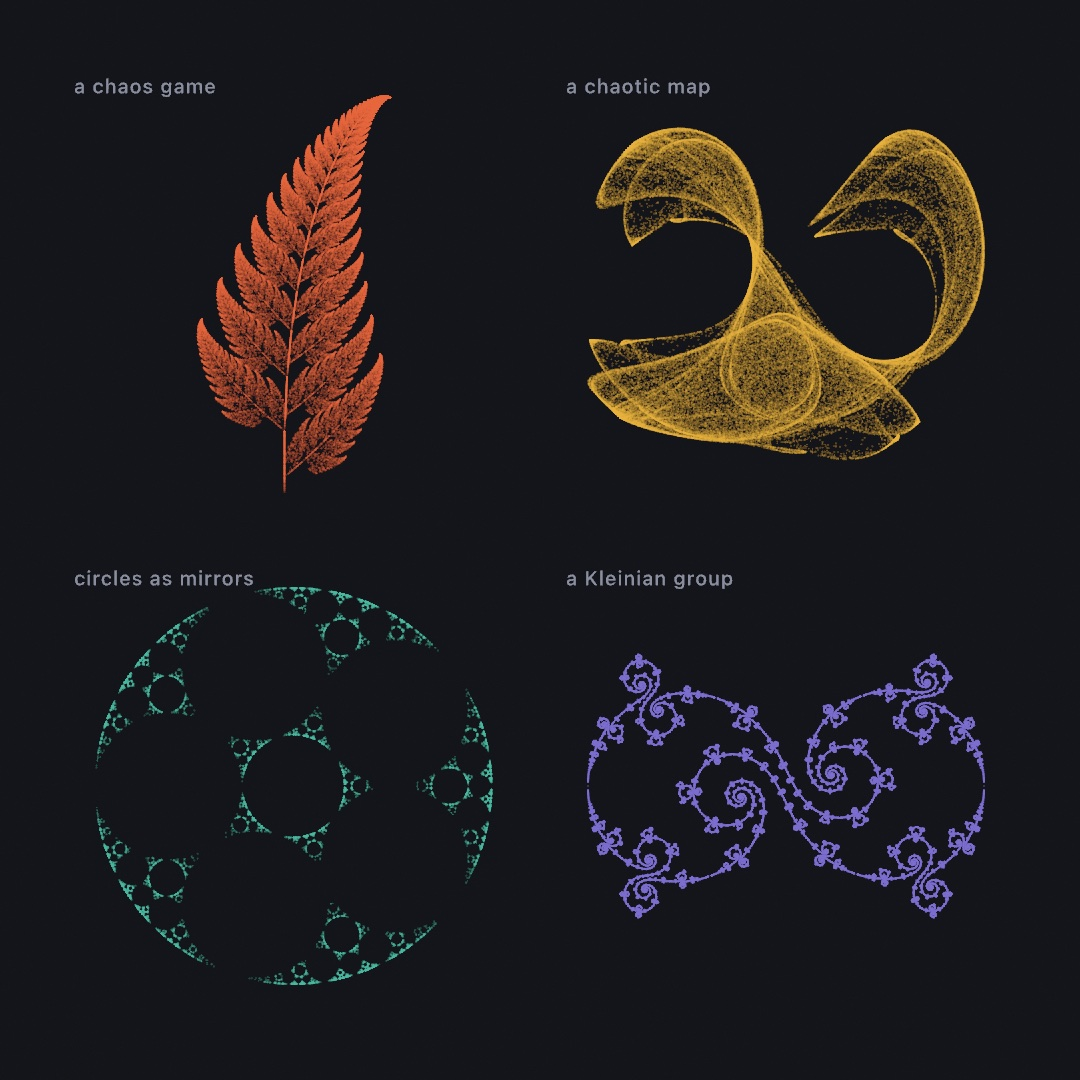
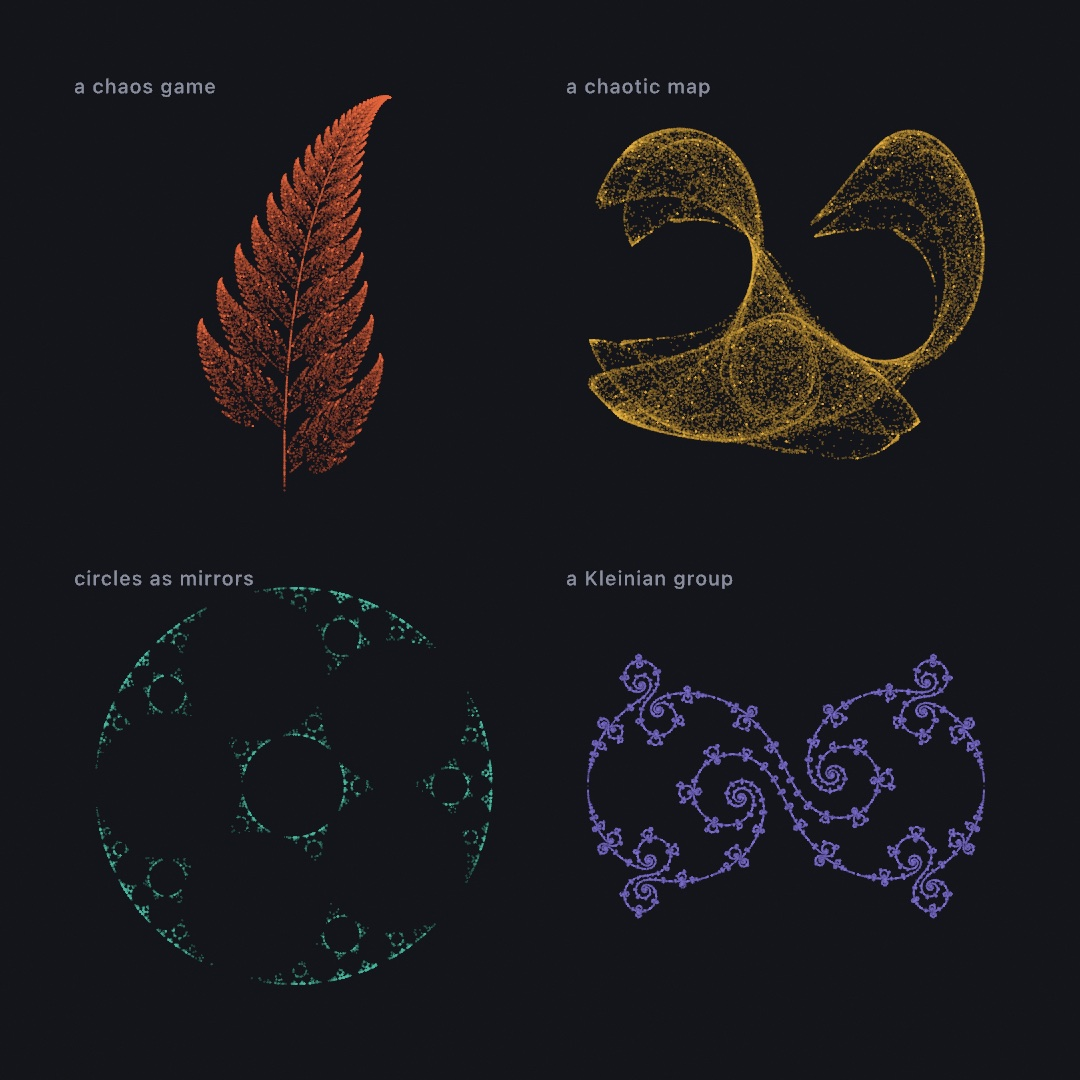
Chapter 22's plate of four orbits condenses in front of the reader. Each cloud is still built once in setup and fitted whole to its panel, and plot draws only the prefix that has landed so far, so the picture never swells or slides as it fills: six seconds of growth eased in cubic, two seconds holdi
Claude-Session: https://claude.ai/code/session_01WqLtBAH3GLezrn1E1FY2W7

diff --git a/Guide/Figures/22-IteratedForms/OrbitPlate.swift b/Guide/Figures/22-IteratedForms/OrbitPlate.swift
@@ -1,9 +1,12 @@
-// figure: frame=0 probe
+// figure: frame=240 probe
 //
 // Guide payoff (Chapter 22): a plate of four orbits. Four different iterated
 // rules, all of them handed to the same plotting function, because the
 // chapter's whole claim is that what you are looking at is the density of an
-// orbit rather than a drawn shape.
+// orbit rather than a drawn shape. The clouds condense point by point over
+// six seconds and then hold for two. The pinned frame is four seconds in,
+// with each cloud about a third of the way grown and its newest landings
+// bright.
 import Ollin
 
 final class OrbitPlate: Sketch {
@@ -19,6 +22,9 @@ final class OrbitPlate: Sketch {
     var clouds: [[Vector2]] = []
     var builtFor = 0
 
+    // Six seconds of points landing, then two seconds of the finished plate.
+    override var loopDuration: Double? { 8 }
+
     override func setup() {
         build()
     }
@@ -28,10 +34,16 @@ final class OrbitPlate: Sketch {
         background(paper)
         noStroke()
 
+        // How much of each cloud has landed so far. The ease-in keeps the
+        // first few hundred points on screen long enough to watch them land,
+        // before the flood.
+        let seconds = loopProgress(over: 8) * 8
+        let grown = Easing.easeInCubic(min(seconds / 6, 1))
+
         let panels = grid(columns: 2, rows: 2, padding: 70, gutter: 44)
         for (index, cell) in panels.cells.enumerated() {
             let inner = cell.frame.inset(by: .all(26))
-            plot(clouds[index], in: inner, ink: ramp.color(at: Double(index) / 3))
+            plot(clouds[index], in: inner, ink: ramp.color(at: Double(index) / 3), grown: grown)
             label(index, in: cell.frame)
         }
     }
@@ -72,16 +84,25 @@ final class OrbitPlate: Sketch {
             mirrors.append(Circle(center: .zero, radius: 1 - r))
             return inversionLimitSet(of: mirrors, count: budget / 3)
         default:
-            return kleinianLimitSet(.lace).points
+            // A contour's points come in order along the curve. Shuffled, they
+            // land all over it at once, the way the other three clouds do.
+            return shuffled(kleinianLimitSet(.lace).points)
         }
     }
 
-    // The one plotting function. Fit the cloud to its panel, then lay every
-    // point down at the same low alpha so that crowding is what makes a
-    // region bright.
-    func plot(_ cloud: [Vector2], in frame: Rectangle, ink: Color) {
+    // The one plotting function. Fit the whole cloud to its panel, then lay
+    // down the points that have landed so far, every one at the same low
+    // alpha, so that crowding is what makes a region bright. The newest few
+    // go down at full ink while the cloud is still growing, so you can watch
+    // the game being played.
+    func plot(_ cloud: [Vector2], in frame: Rectangle, ink: Color, grown: Double) {
+        let placed = fitted(cloud, in: frame)
+        let landed = Int(Double(placed.count) * grown)
+        let fresh = grown < 1 ? 200 : 0
         fill(ink.withAlpha(inkAlpha))
-        drawPoints(fitted(cloud, in: frame), size: dotSize)
+        drawPoints(Array(placed.prefix(landed)), size: dotSize)
+        fill(ink)
+        drawPoints(Array(placed.prefix(landed).suffix(fresh)), size: dotSize + 0.5)
     }
 
     func label(_ index: Int, in frame: Rectangle) {

diff --git a/Guide/22-IteratedForms.md b/Guide/22-IteratedForms.md
@@ -4,9 +4,9 @@
 
 # 22. Iterated forms
 
-<img src="Images/22-IteratedForms/OrbitPlate.jpg" alt="Four dark panels on near-black: a coral-red Barnsley fern, a gold folded ribbon from a chaotic map, a teal lace of nested circles from circle inversion, and a violet double spiral from a Kleinian group" width="560">
+<img src="Images/22-IteratedForms/OrbitPlate.jpg" alt="Four dark panels on near-black, each a cloud of points caught part way through condensing, its newest points bright over the faint ones: a coral-red Barnsley fern, a gold folded ribbon from a chaotic map, a teal lace of nested circles from circle inversion, and a violet double spiral from a Kleinian group" width="560">
 
-Take a point, apply a rule, mark where it lands, and repeat tens of thousands of times. The marks record where the point spent its time, and that record is the picture. You learn four such rules and one plotting function that draws them all, and the plate above is that function called four times. Fractal flames, order turning into chaos, and questions asked of the plane one pixel at a time follow it.
+Take a point, apply a rule, mark where it lands, and repeat tens of thousands of times. The marks record where the point spent its time, and that record is the picture. You learn four such rules and one plotting function that draws them all. The plate above is that function called four times, each cloud condensing as its points land. Fractal flames, order turning into chaos, and questions asked of the plane one pixel at a time follow it.
 
 ## The same fern, played as a game: the chaos game
 
@@ -102,7 +102,7 @@ The return type is what sets this one apart from the clouds. `kleinianLimitSet` 
 
 ## Putting it together: a plate of four orbits
 
-Now you can build the plate at the top. It is a specimen sheet, four systems laid out under one hand. The four steps above each made a cloud of points, and the plate composes them. The chaos game's fern and a chaotic map's orbit each get a panel. So do the dust of a ring of mirrors and a Kleinian curve's points. Each is fitted into its panel and laid down faint. One function turns a rule into a cloud of points. One other function fits that cloud into a panel and draws it. Make a new file, `MySketches/OrbitPlate.swift`:
+Now you can build the plate at the top. It is a specimen sheet, four systems laid out under one hand, and it fills in front of you. The four steps above each made a cloud of points, and the plate composes them. The chaos game's fern and a chaotic map's orbit each get a panel. So do the dust of a ring of mirrors and a Kleinian curve's points. Each is fitted into its panel and laid down faint, a few points at a time, until the cloud is whole. One function turns a rule into a cloud of points. One other function fits that cloud into a panel and draws as much of it as has landed. Make a new file, `MySketches/OrbitPlate.swift`:
 
 ```swift
 import Ollin
@@ -120,6 +120,9 @@ final class OrbitPlate: Sketch {
     var clouds: [[Vector2]] = []
     var builtFor = 0
 
+    // Six seconds of points landing, then two seconds of the finished plate.
+    override var loopDuration: Double? { 8 }
+
     override func setup() {
         build()
     }
@@ -129,10 +132,16 @@ final class OrbitPlate: Sketch {
         background(paper)
         noStroke()
 
+        // How much of each cloud has landed so far. The ease-in keeps the
+        // first few hundred points on screen long enough to watch them land,
+        // before the flood.
+        let seconds = loopProgress(over: 8) * 8
+        let grown = Easing.easeInCubic(min(seconds / 6, 1))
+
         let panels = grid(columns: 2, rows: 2, padding: 70, gutter: 44)
         for (index, cell) in panels.cells.enumerated() {
             let inner = cell.frame.inset(by: .all(26))
-            plot(clouds[index], in: inner, ink: ramp.color(at: Double(index) / 3))
+            plot(clouds[index], in: inner, ink: ramp.color(at: Double(index) / 3), grown: grown)
             label(index, in: cell.frame)
         }
     }
@@ -173,16 +182,25 @@ final class OrbitPlate: Sketch {
             mirrors.append(Circle(center: .zero, radius: 1 - r))
             return inversionLimitSet(of: mirrors, count: budget / 3)
         default:
-            return kleinianLimitSet(.lace).points
+            // A contour's points come in order along the curve. Shuffled, they
+            // land all over it at once, the way the other three clouds do.
+            return shuffled(kleinianLimitSet(.lace).points)
         }
     }
 
-    // The one plotting function. Fit the cloud to its panel, then lay every
-    // point down at the same low alpha so that crowding is what makes a
-    // region bright.
-    func plot(_ cloud: [Vector2], in frame: Rectangle, ink: Color) {
+    // The one plotting function. Fit the whole cloud to its panel, then lay
+    // down the points that have landed so far, every one at the same low
+    // alpha, so that crowding is what makes a region bright. The newest few
+    // go down at full ink while the cloud is still growing, so you can watch
+    // the game being played.
+    func plot(_ cloud: [Vector2], in frame: Rectangle, ink: Color, grown: Double) {
+        let placed = fitted(cloud, in: frame)
+        let landed = Int(Double(placed.count) * grown)
+        let fresh = grown < 1 ? 200 : 0
         fill(ink.withAlpha(inkAlpha))
-        drawPoints(fitted(cloud, in: frame), size: dotSize)
+        drawPoints(Array(placed.prefix(landed)), size: dotSize)
+        fill(ink)
+        drawPoints(Array(placed.prefix(landed).suffix(fresh)), size: dotSize + 0.5)
     }
 
     func label(_ index: Int, in frame: Rectangle) {
@@ -196,14 +214,15 @@ final class OrbitPlate: Sketch {
 }
 ```
 
-> **Swift note.** `switch index` picks one branch by a value. Each `case` is one value, `default` is every other, and a `return` inside a case leaves the function with that branch's answer. `trail.reserveCapacity(budget)` asks the list to set room aside before the loop fills it, so it never has to grow. The property `clouds` is a list of lists, like the trails in [Chapter 10](10-Vectors.md)'s chasers. The call `(0 ..< 4).map { orbit($0) }` builds it with the `$0` form from [Chapter 6](06-GridsAndRepetition.md).
+> **Swift note.** `switch index` picks one branch by a value. Each `case` is one value, `default` is every other, and a `return` inside a case leaves the function with that branch's answer. `trail.reserveCapacity(budget)` asks the list to set room aside before the loop fills it, so it never has to grow. The property `clouds` is a list of lists, like the trails in [Chapter 10](10-Vectors.md)'s chasers. The call `(0 ..< 4).map { orbit($0) }` builds it with the `$0` form from [Chapter 6](06-GridsAndRepetition.md). `placed.prefix(landed)` is the first `landed` items of a list, and `.suffix(fresh)` the last `fresh` of those. Each is a view onto the list rather than a list of its own, so `Array(...)` makes one again before `drawPoints` takes it.
 
 Run it, then pull the ink alpha down and the point budget up. What each function does:
 
-- `build()` makes the four clouds once, in `setup()`, and makes them again only when `Points per panel` moves. Building them every frame would cost the same work sixty times a second for a picture that never changes. `seed(3)` inside it is what keeps the fern and the mirrors' dust the same from one build to the next. The mirrors get a third of the budget, since their dust crowds faster. The Kleinian curve has a point count of its own and ignores the budget.
-- `orbit(_:)` is where the four systems live, and it is the only place they differ. Three of them return a cloud they generated. The Kleinian one returns a curve's points, which is the same list of `Vector2` and so plots identically.
-- `plot(_:in:ink:)` never asks what it is drawing. `fitted` measures whatever it is handed and scales it into the panel. That is why the fern's own coordinates and the Clifford map's plus-or-minus-two range both land correctly. No numbers are set per system anywhere.
-- The low alpha is the reason these read as forms rather than scribble. A single dot is nearly invisible. Where the orbit returns often the dots stack, and the density becomes the image. Turn `Ink` up to 0.6 and the picture flattens into a silhouette, which is the same information with the interesting part thrown away.
+- `build()` makes the four clouds once, in `setup()`, and makes them again only when `Points per panel` moves. Building them every frame would cost the same work sixty times a second for clouds that never change. Only how much of each is shown changes. `seed(3)` inside it is what keeps the fern and the mirrors' dust the same from one build to the next. The mirrors get a third of the budget, since their dust crowds faster. The Kleinian curve has a point count of its own and ignores the budget.
+- `orbit(_:)` is where the four systems live, and it is the only place they differ. Three of them return a cloud they generated. The Kleinian one returns a curve's points, which is the same list of `Vector2` and so plots identically. They are shuffled first, because a contour's points come in order along the curve. In that order the panel would draw its curve from one end to the other, while the other three condense all over at once.
+- `loopProgress(over: 8)` is the clock from [Chapter 3](03-MotionAndTime.md), lapping `0...1` every eight seconds, and `loopDuration` declares the same eight so an export can render exactly one lap. The first six seconds grow the clouds and the last two hold the finished plate. `Easing.easeInCubic` shapes the growth. One second in, fewer than one point in two hundred has landed, so the first few hundred stay on screen long enough to watch, and the flood comes at the end.
+- `plot(_:in:ink:grown:)` never asks what it is drawing. `fitted` measures the whole cloud and scales it into the panel, and only then does `prefix` keep the part that has landed. That is why the fern's own coordinates and the Clifford map's plus-or-minus-two range both land correctly, and why the picture never shifts as it fills. Fitting the landed part instead would make each cloud swell and slide as its extent grew. No numbers are set per system anywhere.
+- The low alpha is the reason these read as forms rather than scribble. A single dot is nearly invisible. Where the orbit returns often the dots stack, and the density becomes the image. Turn `Ink` up to 0.6 and the picture flattens into a silhouette, which is the same information with the interesting part thrown away. The newest two hundred landings go down at full ink while a cloud is growing, which is what lets you see the game being played rather than a picture fading in. Once the lap holds, they go down faint like the rest.
 - `grid` and `Ramp` do the layout and the color, from [Chapter 6](06-GridsAndRepetition.md) and [Chapter 2](02-Color.md). The plate is a grid sketch that happens to be full of orbits.
 
 Before moving on, make it yours:
@@ -211,9 +230,10 @@ Before moving on, make it yours:
 - Swap `ChaoticMap.clifford()` for `.deJong()`, `.gumowskiMira()`, or `.ikeda()`. Each has its own temperament, and the panel is one word wide.
 - Give the fern panel `.sierpinskiTriangle` or one of the other systems, and watch `fitted` absorb the change with no other edit.
 - Feed the ring in panel three six mirrors instead of five, then let them overlap slightly. The lace tears, as the mirrors step said it would, and pulling them apart instead scatters it into dust.
+- Take `shuffled` off the Kleinian points. That panel then draws its curve from one end to the other while the others condense, because a contour's points come in order.
 - Drop to one panel at the full canvas and raise the budget to its ceiling. These are density plates, and they keep gaining from samples long past the point where a drawn shape would be finished.
 
-The plate is a still, so keep it as one. `swift run OllinLive MySketches/OrbitPlate.swift --export plate.png` writes the canvas at its full size, with the parameter values in the file.
+The plate fills in front of you, so keep a lap of it. `swift run OllinLive MySketches/OrbitPlate.swift --export-loop plate.mp4` renders exactly the eight seconds `loopDuration` declares, from the first landings to the held plate. For the finished plate alone, `--export plate.png --frame 400` writes a frame from the hold at the canvas's full size, with the parameter values in the file.
 
 ## More games with transformations: fractal flames and Schottky circles
 
